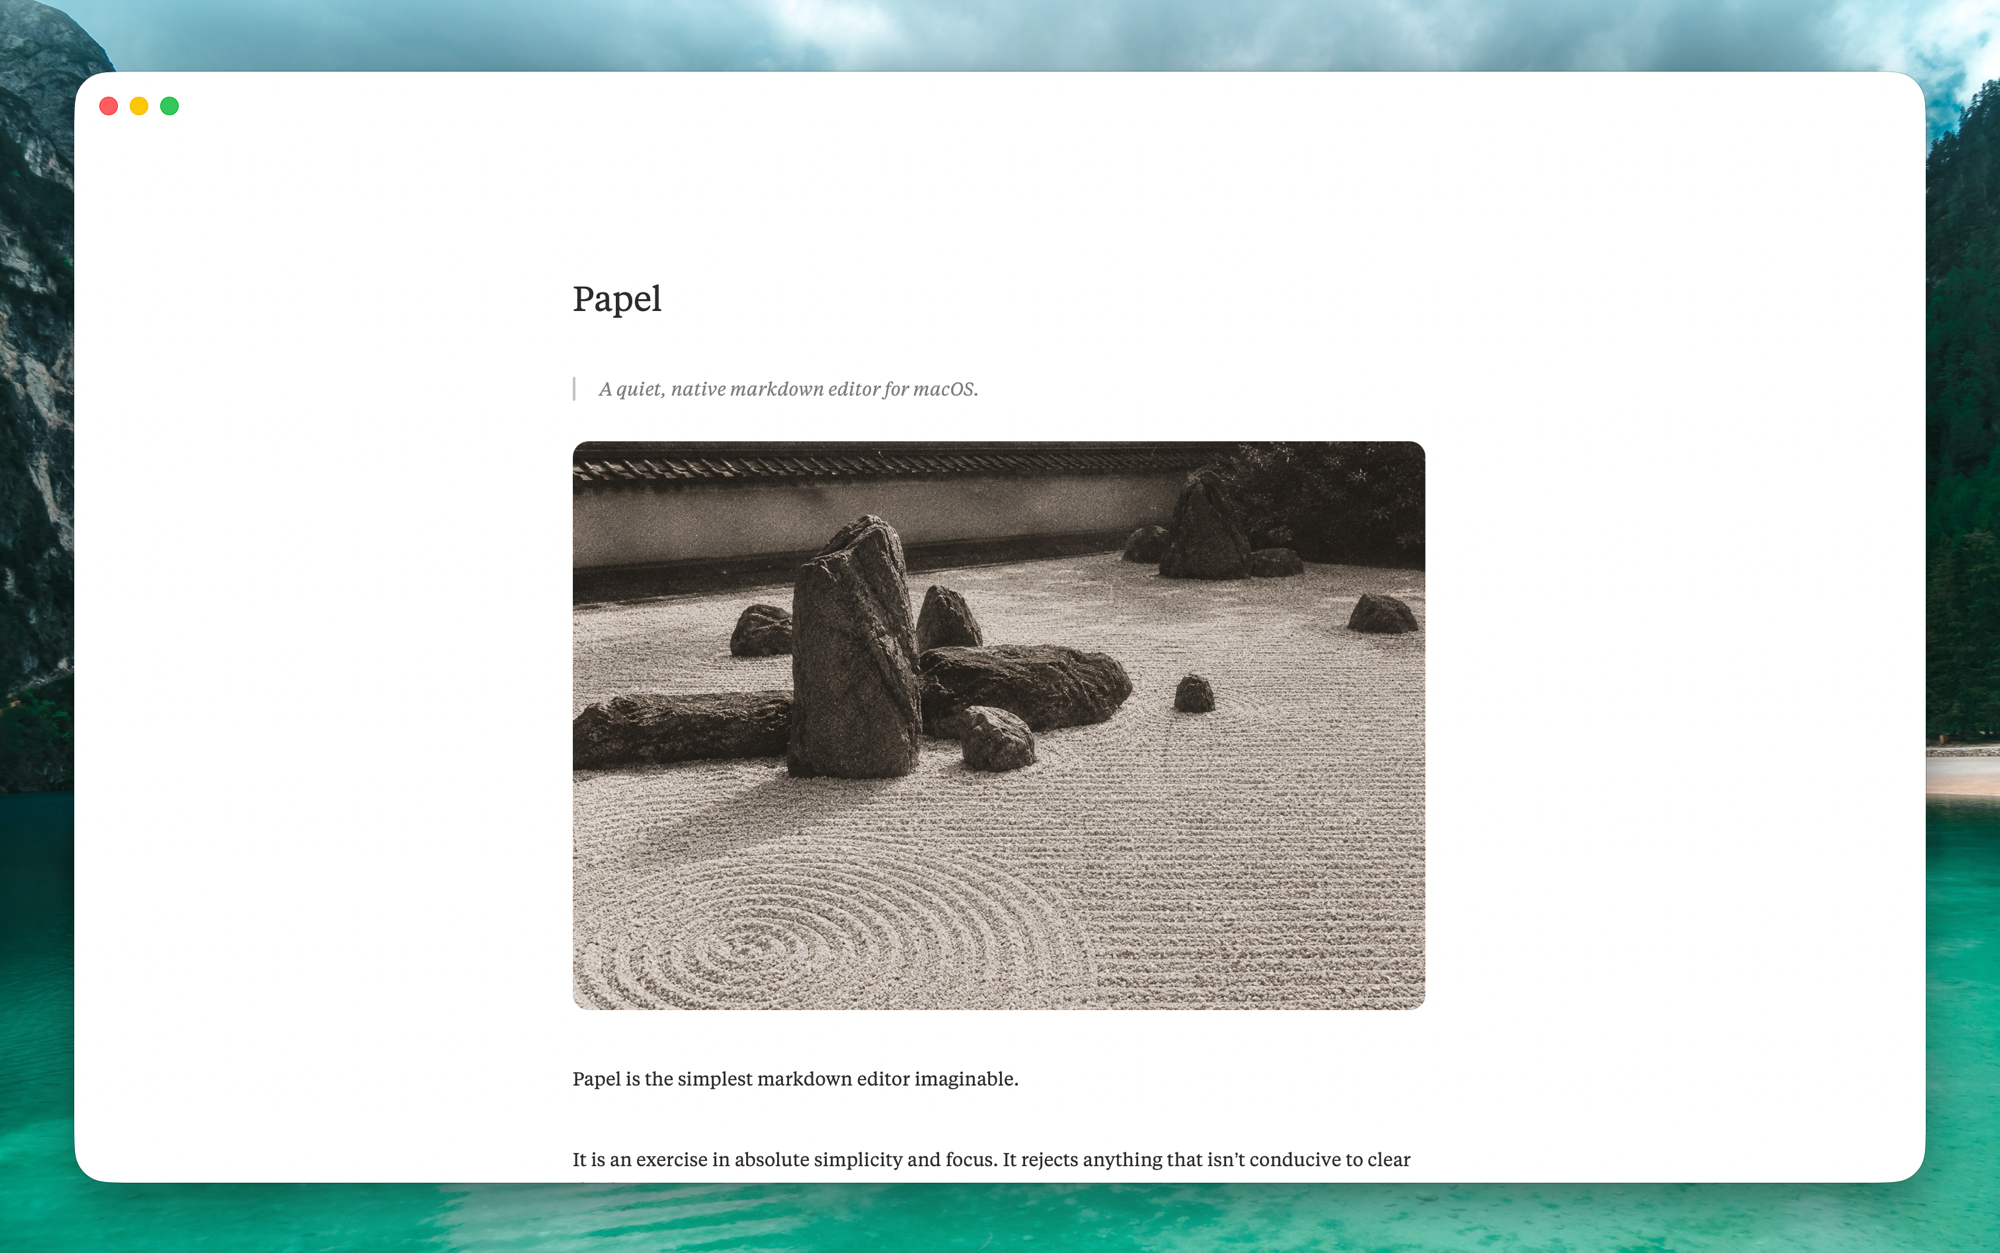
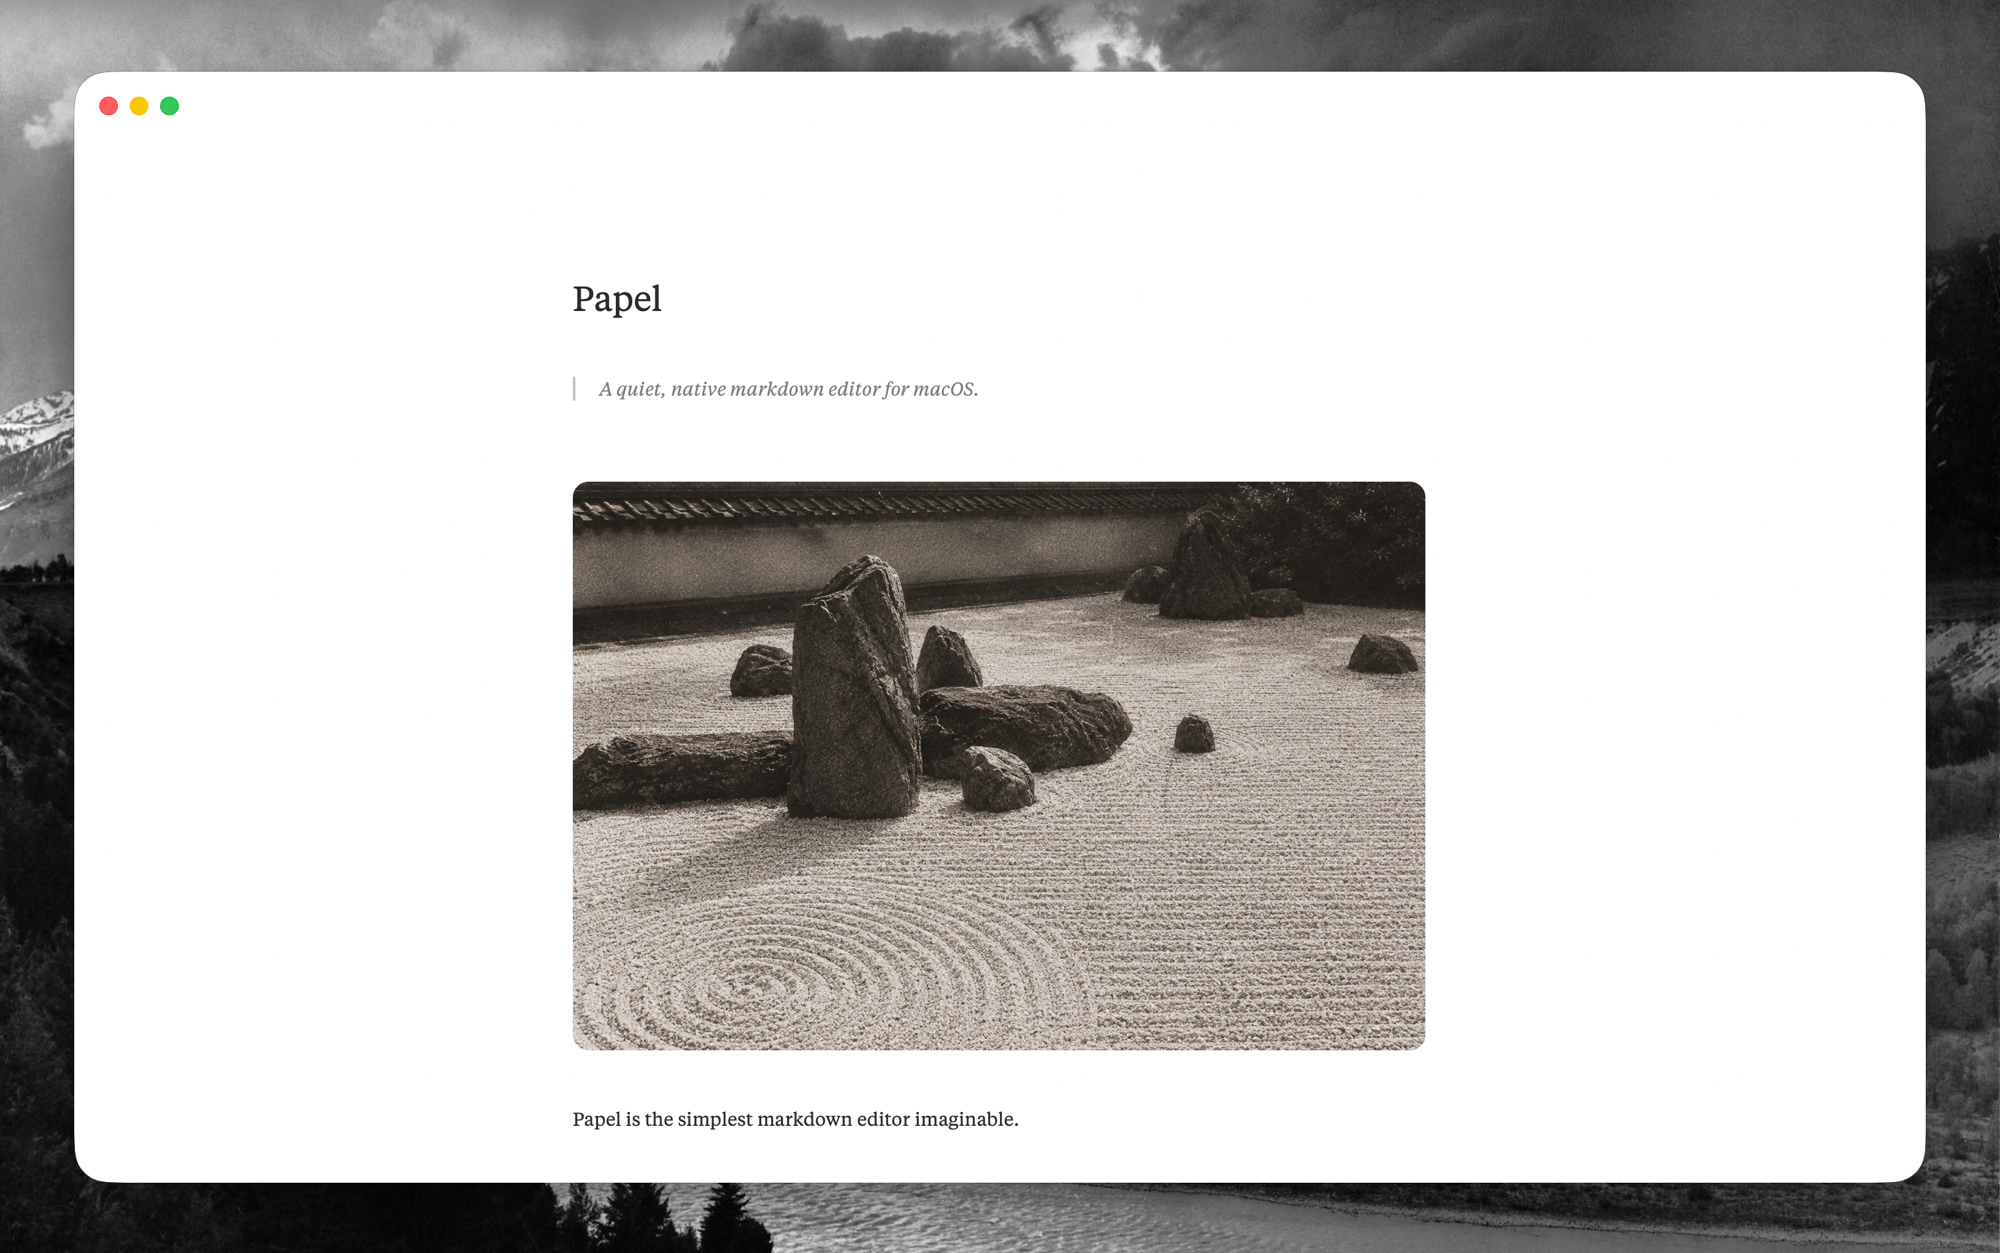
Capture with the garden over a monochrome desktop

diff --git a/site/index.html b/site/index.html
@@ -173,7 +173,7 @@
   <p class="buttons"><a class="pill download" href="https://github.com/humanitas-labs/papel/releases/latest/download/Papel.dmg" download><svg viewBox="0 0 24 24" aria-hidden="true"><path d="M12.152 6.896c-.948 0-2.415-1.078-3.96-1.04-2.04.027-3.91 1.183-4.961 3.014-2.117 3.675-.546 9.103 1.519 12.09 1.013 1.454 2.208 3.09 3.792 3.039 1.52-.065 2.09-.987 3.935-.987 1.831 0 2.35.987 3.96.948 1.637-.026 2.676-1.48 3.676-2.948 1.156-1.688 1.636-3.325 1.662-3.415-.039-.013-3.182-1.221-3.22-4.857-.026-3.04 2.48-4.494 2.597-4.559-1.429-2.09-3.623-2.324-4.39-2.376-2-.156-3.675 1.09-4.61 1.09zM15.53 3.83c.843-1.012 1.4-2.427 1.245-3.83-1.207.052-2.662.805-3.532 1.818-.78.896-1.454 2.338-1.273 3.714 1.338.104 2.715-.688 3.559-1.701"/></svg>Download for Mac</a><a class="pill outline" href="https://github.com/humanitas-labs/papel"><svg viewBox="0 0 24 24" aria-hidden="true"><path d="M12 .297c-6.63 0-12 5.373-12 12 0 5.303 3.438 9.8 8.205 11.385.6.113.82-.258.82-.577 0-.285-.01-1.04-.015-2.04-3.338.724-4.042-1.61-4.042-1.61C4.422 18.07 3.633 17.7 3.633 17.7c-1.087-.744.084-.729.084-.729 1.205.084 1.838 1.236 1.838 1.236 1.07 1.835 2.809 1.305 3.495.998.108-.776.417-1.305.76-1.605-2.665-.3-5.466-1.332-5.466-5.93 0-1.31.465-2.38 1.235-3.22-.135-.303-.54-1.523.105-3.176 0 0 1.005-.322 3.3 1.23.96-.267 1.98-.399 3-.405 1.02.006 2.04.138 3 .405 2.28-1.552 3.285-1.23 3.285-1.23.645 1.653.24 2.873.12 3.176.765.84 1.23 1.91 1.23 3.22 0 4.61-2.805 5.625-5.475 5.92.42.36.81 1.096.81 2.22 0 1.606-.015 2.896-.015 3.286 0 .315.21.69.825.57C20.565 22.092 24 17.592 24 12.297c0-6.627-5.373-12-12-12"/></svg>Source</a><span class="fine">macOS 15 or later · free, MIT</span></p>
   <div class="blank"></div>
 
-  <figure><img src="papel.png" alt="A Papel window showing its own README: the ink-brush mark, a heading, an italic quote behind a rule, and a few paragraphs of prose." width="2000" height="1254"></figure>
+  <figure><img src="papel.png" alt="A Papel window showing its own README: the ink-brush mark, a heading, an italic quote behind a rule, and a few paragraphs of prose." width="2000" height="1253"></figure>
   <div class="blank"></div>
 
   <p>Papel is the simplest markdown editor imaginable.</p>
